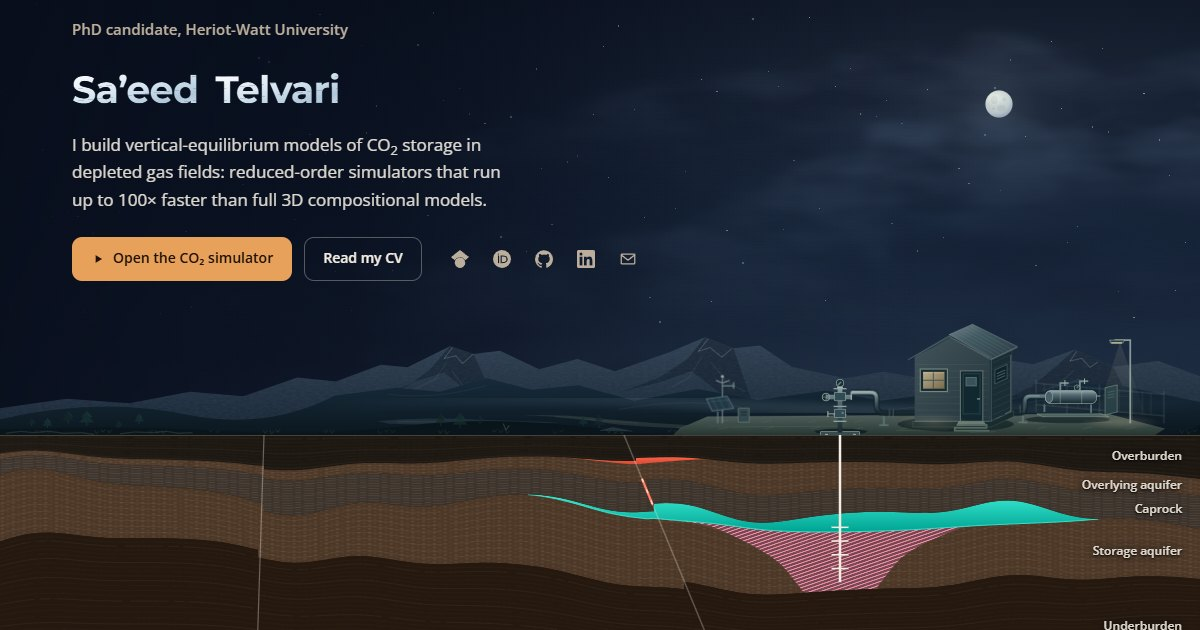
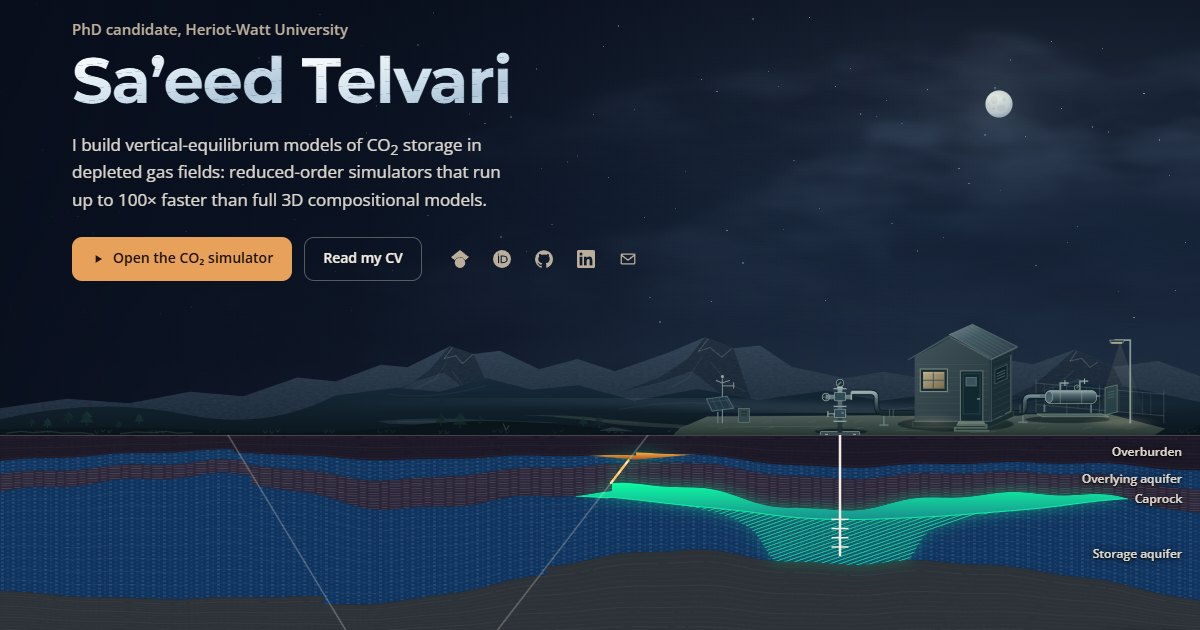
Restore the night palette in the hero section
Navy aquifers, plum seals, slate underburden and neon-green CO2 with a
soft glow, as on the previous homepage. Residual CO2 is seafoam to brine
blue and leaked CO2 is amber, so each class still reads apart. The player
uses the same green. All hero colours sit in the .hero-scene token block;
the colour guard exempts only that block. Social card re-rendered.

Changed region(s): [[0.0, 0.6937, 1.0, 1.0], [0.0617, 0.0905, 0.4317, 0.181], [0.3392, 0.2111, 0.4008, 0.2413]]

diff --git a/colors_and_type.css b/colors_and_type.css
@@ -817,7 +817,8 @@ body:has(#app-loader) .hero-rain-drop { animation-play-state: paused; }
 
 /* =====================================================
    HERO — layout, section layers, labels, depth axis and player.
-   Rock follows the simulator's section view at night; CO₂ uses its class colours.
+   The section keeps the original night palette: navy aquifers, plum seals,
+   slate underburden and neon-green CO₂. Leaked CO₂ is amber so a leak reads apart.
    ===================================================== */
 .hero-scene {
   position: relative;
@@ -826,10 +827,17 @@ body:has(#app-loader) .hero-rain-drop { animation-play-state: paused; }
   overflow: hidden;
   color: var(--sim-ink);
   background: #070d1a;
-  --hero-over: #1d1712;
-  --hero-cap: #3b322b;
-  --hero-sand: #4d3828;
-  --hero-base: #24180f;
+  --hero-over: #1c1726;
+  --hero-cap: #2b2336;
+  --hero-sand: #0f3460;
+  --hero-base: #2c3238;
+  --hero-accent: #64ffda;
+  --sim-glow-free: #0dfca2;
+  --sim-c-free: #1a8e8f;
+  --sim-glow-residual: #20c997;
+  --sim-c-residual: #125672;
+  --sim-glow-leaked: #ffb547;
+  --sim-c-leaked: #a8541c;
 }
 
 .hero-svg {
@@ -842,7 +850,7 @@ body:has(#app-loader) .hero-rain-drop { animation-play-state: paused; }
   pointer-events: none;
 }
 .hero-svg--rock { z-index: 1; }
-.hero-svg--plume { z-index: 2; }
+.hero-svg--plume { z-index: 2; filter: drop-shadow(0 0 7px color-mix(in srgb, var(--sim-glow-free) 45%, transparent)); }
 .hero-svg--overlay { z-index: 3; }
 
 .hero-rock--over { fill: var(--hero-over); }
@@ -860,7 +868,7 @@ body:has(#app-loader) .hero-rain-drop { animation-play-state: paused; }
 
 .hero-contact { stroke: var(--sim-glow-free); stroke-width: 1; stroke-opacity: 0.9; }
 .hero-leak { stroke: var(--sim-glow-leaked); stroke-width: 2.5; stroke-linecap: round; }
-.hero-leak-cue { stroke: #ffd7cc; stroke-width: 1.5; stroke-linecap: round; }
+.hero-leak-cue { stroke: #ffe9c7; stroke-width: 1.5; stroke-linecap: round; }
 .hero-surface-line { stroke: var(--sim-ink); stroke-opacity: 0.28; stroke-width: 1; }
 .hero-fault { stroke: var(--sim-ink); stroke-opacity: 0.35; stroke-width: 1.2; }
 .hero-well { stroke: var(--sim-ink); stroke-width: 2.5; }
@@ -964,9 +972,9 @@ body:has(#app-loader) .hero-rain-drop { animation-play-state: paused; }
   bottom: 24px;
   width: 340px;
   padding: 12px 14px 10px;
-  border: 1px solid var(--sim-rule);
+  border: 1px solid color-mix(in srgb, var(--hero-accent) 28%, transparent);
   border-radius: 14px;
-  background: rgba(26, 21, 17, 0.93);
+  background: rgba(8, 14, 28, 0.82);
   color: var(--sim-ink);
   font-family: var(--sim-font-ui);
 }
@@ -981,11 +989,11 @@ body:has(#app-loader) .hero-rain-drop { animation-play-state: paused; }
   padding: 0;
   border: 0;
   border-radius: 50%;
-  background: var(--sim-accent);
-  color: var(--sim-accent-ink);
+  background: var(--hero-accent);
+  color: #04201a;
   cursor: pointer;
 }
-.hero-player__scrub { flex: 1; min-width: 0; height: 20px; margin: 0; accent-color: var(--sim-accent); cursor: pointer; }
+.hero-player__scrub { flex: 1; min-width: 0; height: 20px; margin: 0; accent-color: var(--hero-accent); cursor: pointer; }
 .hero-player__small {
   display: inline-flex;
   flex: none;

diff --git a/SubsurfaceHero.jsx b/SubsurfaceHero.jsx
@@ -225,12 +225,12 @@ const HeroSection = React.memo(({ sectionRef }) => {
       <defs>
         <pattern id="hero-shale" width="18" height="6" patternUnits="userSpaceOnUse">
           <rect width="18" height="6" className="hero-rock--cap" />
-          <path d="M1 3h9M12 1h5" stroke="#8d7f6e" strokeOpacity=".3" strokeWidth=".8" />
+          <path d="M1 3h9M12 1h5" stroke="#9fb3c8" strokeOpacity=".3" strokeWidth=".8" />
         </pattern>
         <pattern id="hero-sand" width="9" height="9" patternUnits="userSpaceOnUse">
           <rect width="9" height="9" className="hero-rock--sand" />
-          <circle cx="2" cy="2" r=".9" fill="#8d7f6e" fillOpacity=".4" />
-          <circle cx="6.5" cy="6" r=".7" fill="#8d7f6e" fillOpacity=".3" />
+          <circle cx="2" cy="2" r=".9" fill="#9fb3c8" fillOpacity=".4" />
+          <circle cx="6.5" cy="6" r=".7" fill="#9fb3c8" fillOpacity=".3" />
         </pattern>
         <clipPath id="hero-lower-rock"><path d={AQUIFER_PATH}/></clipPath>
         <linearGradient id="hero-lower-texture" x1="0" y1="280" x2="0" y2="580" gradientUnits="userSpaceOnUse">
@@ -291,7 +291,7 @@ const GeologyTexture = ({ faults, geology: g }) => useMemo(() => {
         {Array.from({ length: 90 }, (_, i) => <ellipse key={i}
           cx={(i * 47.13 + 7) % 137} cy={(i * i * 13.71 + 11) % 89}
           rx={0.35 + (i % 4) * 0.13} ry={0.25 + (i % 3) * 0.12}
-          fill={i % 3 ? '#d8c7b0' : '#0d0906'} opacity={i % 3 ? 0.13 : 0.3}/>) }
+          fill={i % 3 ? '#b8c7d6' : '#05080f'} opacity={i % 3 ? 0.13 : 0.3}/>) }
       </pattern>
     </defs>
     <rect width="1000" height="580" fill="url(#rock-grain)" opacity="0.5"/>
@@ -302,7 +302,7 @@ const GeologyTexture = ({ faults, geology: g }) => useMemo(() => {
     </g>
     <g clipPath="url(#rock-reservoirs)">
       {reservoirLines.map((d, i) => <path key={i} d={d} fill="none"
-        stroke="#d9c3a3" strokeWidth="0.7" opacity="0.12" strokeDasharray="47 6 18 4 83 9"/>) }
+        stroke="#93b7c2" strokeWidth="0.7" opacity="0.12" strokeDasharray="47 6 18 4 83 9"/>) }
     </g>
   </g>;
 }, [faults, g]);

diff --git a/tests/site-tokens.test.js b/tests/site-tokens.test.js
@@ -5,6 +5,7 @@ const path = require('node:path');
 const root = path.resolve(__dirname, '..');
 const read = f => fs.readFileSync(path.join(root, f), 'utf8');
 const block = (css, selector) => { const s = css.indexOf(`${selector} {`); assert.ok(s >= 0, selector); return css.slice(s, css.indexOf('}', s)); };
+const heroBlocks = css => [...css.matchAll(/^\.hero-scene \{[^}]*\}/gm)].map(m => m[0]);
 const tokens = text => Object.fromEntries([...text.matchAll(/(--sim-[a-z0-9-]+):\s*([^;]+);/g)].map(m => [m[1], m[2].trim()]));
 
 test('homepage tokens are the simulator Earth night tokens', () => {
@@ -20,6 +21,19 @@ test('no mint, teal, aubergine, indigo or lilac in homepage sources', () => {
   for (const file of ['index.html', 'cv.html', 'colors_and_type.css', 'App.jsx', 'Header.jsx', 'Footer.jsx', 'Primitives.jsx',
     'SubsurfaceHero.jsx', 'GeologicalDescent.jsx', 'HomeSections.jsx', 'CVPage.jsx', 'site-content.js']) {
     if (!fs.existsSync(path.join(root, file))) continue;
-    assert.ok(!banned.test(read(file)), `${file} uses a retired chrome colour`);
+    // The hero's night palette is data colour, kept in one token block; chrome stays clear of it.
+    let text = read(file);
+    if (file === 'colors_and_type.css') for (const hero of heroBlocks(text)) text = text.replace(hero, '');
+    assert.ok(!banned.test(text), `${file} uses a retired chrome colour`);
   }
+});
+
+test('the hero keeps the night palette the user chose on 2026-10-14', () => {
+  const hero = heroBlocks(read('colors_and_type.css')).join('\n');
+  const value = name => ([...hero.matchAll(new RegExp(`${name}:\\s*([^;]+);`, 'g'))].pop() || [])[1];
+  assert.equal(value('--hero-sand'), '#0f3460', 'navy aquifers');
+  assert.equal(value('--hero-cap'), '#2b2336', 'plum seals');
+  assert.equal(value('--sim-glow-free'), '#0dfca2', 'neon-green mobile CO2');
+  assert.equal(value('--sim-glow-residual'), '#20c997', 'seafoam residual CO2');
+  assert.notEqual(value('--sim-glow-leaked'), value('--sim-glow-free'), 'leaked CO2 must read apart from mobile CO2');
 });

diff --git a/simulator.html b/simulator.html
@@ -25,7 +25,7 @@
   <link rel="preconnect" href="https://fonts.gstatic.com" crossorigin>
   <link rel="dns-prefetch" href="https://cdn.jsdelivr.net">
   <link rel="stylesheet" href="https://fonts.googleapis.com/css2?family=Montserrat:wght@400;500;600;700;800&family=Open+Sans:wght@400;600;700&family=JetBrains+Mono:wght@400;500&family=Arizonia&display=swap">
-  <link rel="stylesheet" href="./colors_and_type.css?v=41">
+  <link rel="stylesheet" href="./colors_and_type.css?v=42">
   <link rel="stylesheet" href="./simulator-workbench.css?v=4">
   <link rel="stylesheet" href="https://cdnjs.cloudflare.com/ajax/libs/font-awesome/6.0.0/css/all.min.css">
   <link rel="stylesheet" href="https://cdnjs.cloudflare.com/ajax/libs/KaTeX/0.16.9/katex.min.css">
@@ -33,7 +33,7 @@
   <link rel="preload" as="script" href="https://unpkg.com/react@18.3.1/umd/react.production.min.js">
   <link rel="preload" as="script" href="https://unpkg.com/react-dom@18.3.1/umd/react-dom.production.min.js">
   <link rel="preload" as="script" href="./simulator-bundle.js?v=24">
-  <link rel="preload" as="script" href="./bundle.js?v=41">
+  <link rel="preload" as="script" href="./bundle.js?v=42">
   <link rel="icon" href="./favicon.ico" sizes="32x32">
   <link rel="icon" href="./assets/logo-minimalist.webp" type="image/webp">
   <link rel="apple-touch-icon" href="./assets/apple-touch-icon.png">
@@ -173,6 +173,6 @@
   <div id="root" data-page="simulator"></div>
 
     <script src="simulator-bundle.js?v=24"></script>
-  <script src="bundle.js?v=41" onload="window.__loadTick && window.__loadTick(90)"></script>
+  <script src="bundle.js?v=42" onload="window.__loadTick && window.__loadTick(90)"></script>
 </body>
 </html>

diff --git a/bundle.js b/bundle.js
@@ -1356,7 +1356,7 @@ const HeroSection = React.memo(({
     className: "hero-rock--cap"
   }), /*#__PURE__*/React.createElement("path", {
     d: "M1 3h9M12 1h5",
-    stroke: "#8d7f6e",
+    stroke: "#9fb3c8",
     strokeOpacity: ".3",
     strokeWidth: ".8"
   })), /*#__PURE__*/React.createElement("pattern", {
@@ -1372,13 +1372,13 @@ const HeroSection = React.memo(({
     cx: "2",
     cy: "2",
     r: ".9",
-    fill: "#8d7f6e",
+    fill: "#9fb3c8",
     fillOpacity: ".4"
   }), /*#__PURE__*/React.createElement("circle", {
     cx: "6.5",
     cy: "6",
     r: ".7",
-    fill: "#8d7f6e",
+    fill: "#9fb3c8",
     fillOpacity: ".3"
   })), /*#__PURE__*/React.createElement("clipPath", {
     id: "hero-lower-rock"
@@ -1519,7 +1519,7 @@ const GeologyTexture = ({
     cy: (i * i * 13.71 + 11) % 89,
     rx: 0.35 + i % 4 * 0.13,
     ry: 0.25 + i % 3 * 0.12,
-    fill: i % 3 ? '#d8c7b0' : '#0d0906',
+    fill: i % 3 ? '#b8c7d6' : '#05080f',
     opacity: i % 3 ? 0.13 : 0.3
   })))), /*#__PURE__*/React.createElement("rect", {
     width: "1000",
@@ -1542,7 +1542,7 @@ const GeologyTexture = ({
     key: i,
     d: d,
     fill: "none",
-    stroke: "#d9c3a3",
+    stroke: "#93b7c2",
     strokeWidth: "0.7",
     opacity: "0.12",
     strokeDasharray: "47 6 18 4 83 9"

diff --git a/cv.html b/cv.html
@@ -21,13 +21,13 @@
   <link rel="preconnect" href="https://fonts.googleapis.com">
   <link rel="preconnect" href="https://fonts.gstatic.com" crossorigin>
   <link rel="stylesheet" href="https://fonts.googleapis.com/css2?family=Montserrat:wght@600;700&family=Open+Sans:wght@400;600&family=JetBrains+Mono:wght@400;500&display=swap">
-  <link rel="stylesheet" href="./colors_and_type.css?v=41">
+  <link rel="stylesheet" href="./colors_and_type.css?v=42">
   <link rel="icon" href="./favicon.ico" sizes="32x32">
   <link rel="icon" href="./assets/logo-minimalist.webp" type="image/webp">
   <link rel="apple-touch-icon" href="./assets/apple-touch-icon.png">
   <script defer src="https://unpkg.com/react@18.3.1/umd/react.production.min.js"></script>
   <script defer src="https://unpkg.com/react-dom@18.3.1/umd/react-dom.production.min.js"></script>
-  <script defer src="./bundle.js?v=41"></script>
+  <script defer src="./bundle.js?v=42"></script>
   <style>
     *, *::before, *::after { box-sizing: border-box; }
     html, body { margin: 0; padding: 0; }

diff --git a/index.html b/index.html
@@ -24,13 +24,13 @@
   <link rel="preconnect" href="https://fonts.googleapis.com">
   <link rel="preconnect" href="https://fonts.gstatic.com" crossorigin>
   <link rel="stylesheet" href="https://fonts.googleapis.com/css2?family=Montserrat:wght@600;700&family=Open+Sans:wght@400;600&family=JetBrains+Mono:wght@400;500&display=swap">
-  <link rel="stylesheet" href="./colors_and_type.css?v=41">
+  <link rel="stylesheet" href="./colors_and_type.css?v=42">
   <link rel="icon" href="./favicon.ico" sizes="32x32">
   <link rel="icon" href="./assets/logo-minimalist.webp" type="image/webp">
   <link rel="apple-touch-icon" href="./assets/apple-touch-icon.png">
   <script defer src="https://unpkg.com/react@18.3.1/umd/react.production.min.js"></script>
   <script defer src="https://unpkg.com/react-dom@18.3.1/umd/react-dom.production.min.js"></script>
-  <script defer src="./bundle.js?v=41"></script>
+  <script defer src="./bundle.js?v=42"></script>
   <style>
     *, *::before, *::after { box-sizing: border-box; }
     html, body { margin: 0; padding: 0; }
